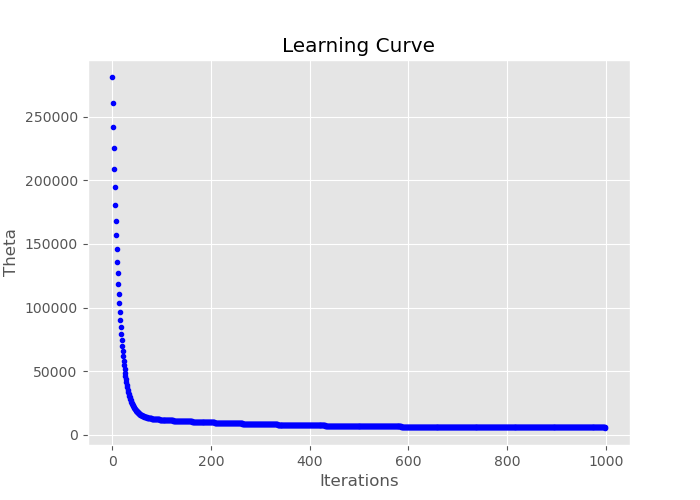
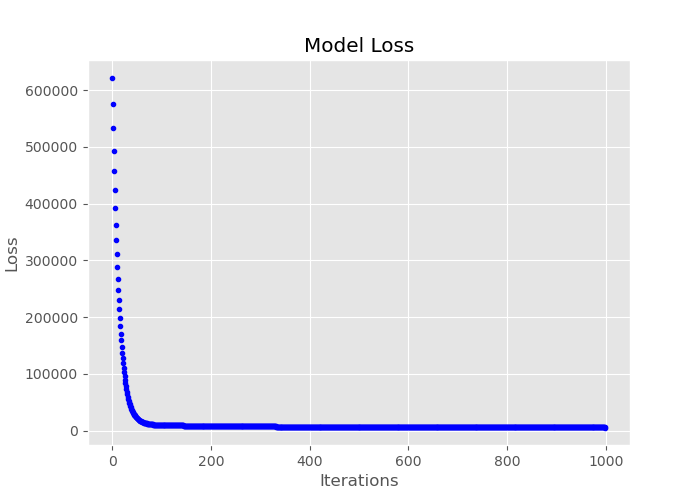
added plot of residuals

diff --git a/linear_regression.py b/linear_regression.py
@@ -5,12 +5,12 @@ from sklearn.model_selection import train_test_split
 from sklearn.preprocessing import StandardScaler
 from sklearn.linear_model import LinearRegression
 from sklearn.metrics import mean_squared_error
+
 plt.style.use('ggplot')
 
 # Define X and y variables
 X = 5 * np.random.rand(100, 1)
 y = 4 - 2 * X + np.random.randn(100, 1)
-
 
 # Split X and y into training and testing sets
 X_train, X_test, y_train, y_test = train_test_split(X,
@@ -45,12 +45,28 @@ print(f"RMSE: {rmse}")
 print(f"Intercept: {model.intercept_}")
 print(f"Coefficient: {model.coef_}")
 
-# Plot results
-plt.scatter(X_test, y_test, s=10, color='gray')
-plt.plot(X_test, y_pred, color='r')
-plt.xlabel('x')
-plt.ylabel('y')
-plt.title('Simple Linear Regression')
-plt.savefig('Images/linear_regression.png')
-plt.show()
 
+# Plot results
+def plot_results():
+    plt.scatter(X_test, y_test, s=10, color='gray')
+    plt.plot(X_test, y_pred, color='r')
+    plt.xlabel('x')
+    plt.ylabel('y')
+    plt.title('Simple Linear Regression')
+    plt.savefig('Images/linear_regression.png')
+    plt.show()
+
+# Plot Residuals
+
+
+def plot_residuals():
+    plt.scatter(model.predict(X_train), model.predict(X_train) - y_train, color="green", s=10, label='Train data')
+    plt.scatter(y_pred, y_pred - y_test, color="blue", s=10, label='Test data')
+    plt.hlines(y=0, xmin=-20, xmax=20, linewidth=2)
+    plt.legend(loc='upper right')
+    plt.title("Residual errors")
+    plt.savefig('Images/residual_plot.png')
+    plt.show()
+
+
+plot_residuals()

diff --git a/gradient_descent.py b/gradient_descent.py
@@ -19,7 +19,7 @@ theta = np.random.randn(2, 1)  # weights
 
 
 def plot_reg():
-    ax = sns.regplot(x=X, y=y, color="g")
+    sns.regplot(x=X, y=y, color="g")
     plt.title("Relationship between x and y")
     plt.savefig("Images/regression_plot.png")
     plt.show()
@@ -90,9 +90,10 @@ cost_history, theta_history, theta = gradient_descent(X_b, y, theta, lr, iter)
 def plot_loss():
     fig, ax = plt.subplots(figsize=(7, 5))
 
-    ax.set_ylabel('Theta')
+    ax.set_ylabel('Loss')
     ax.set_xlabel('Iterations')
     ax.plot(range(iter), cost_history, 'b.')
+    plt.title('Model Loss')
     plt.savefig('Images/gd_learning_curve.png')
     plt.show()
 
